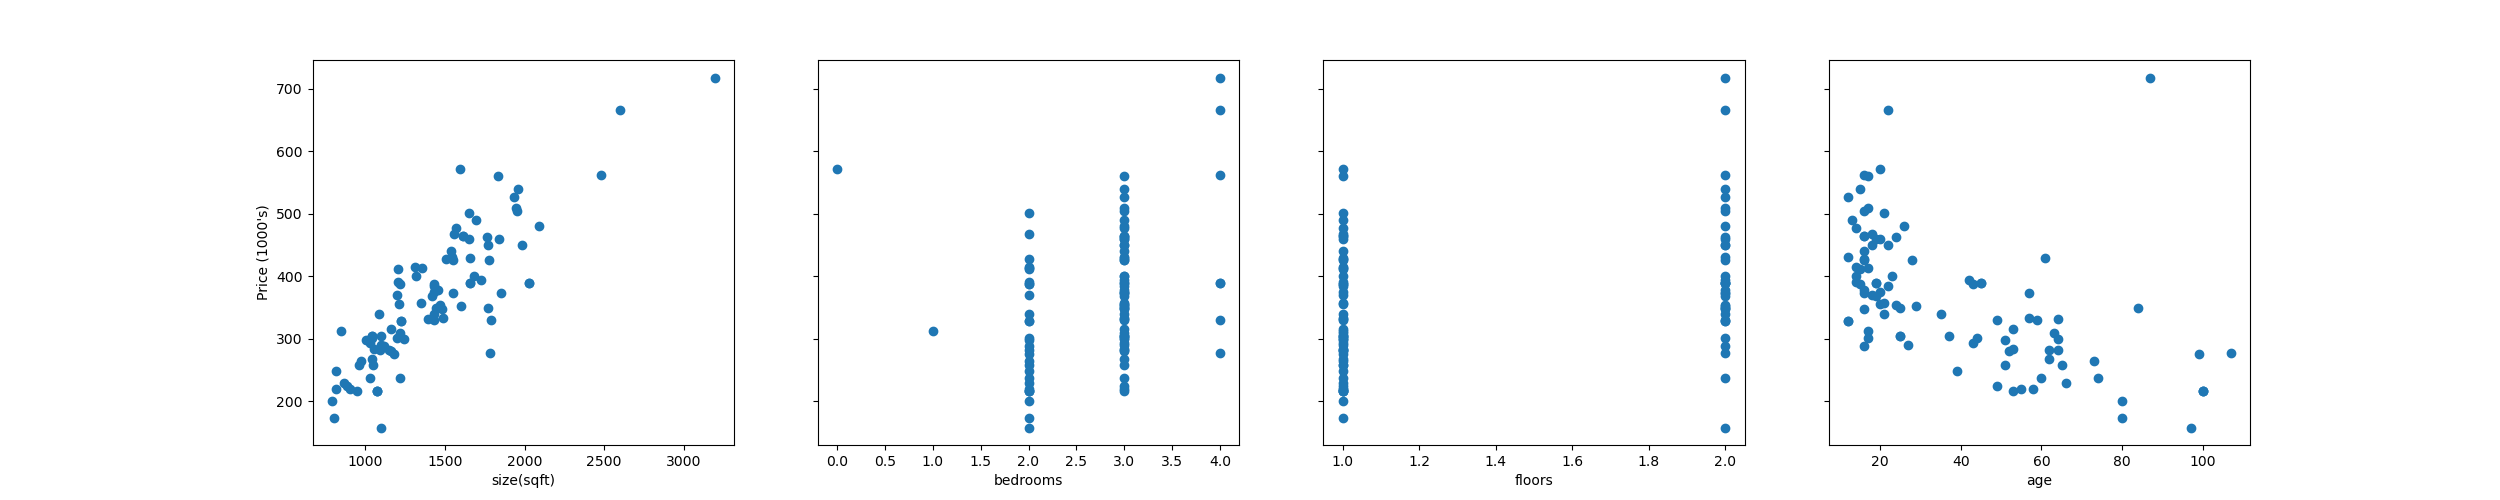
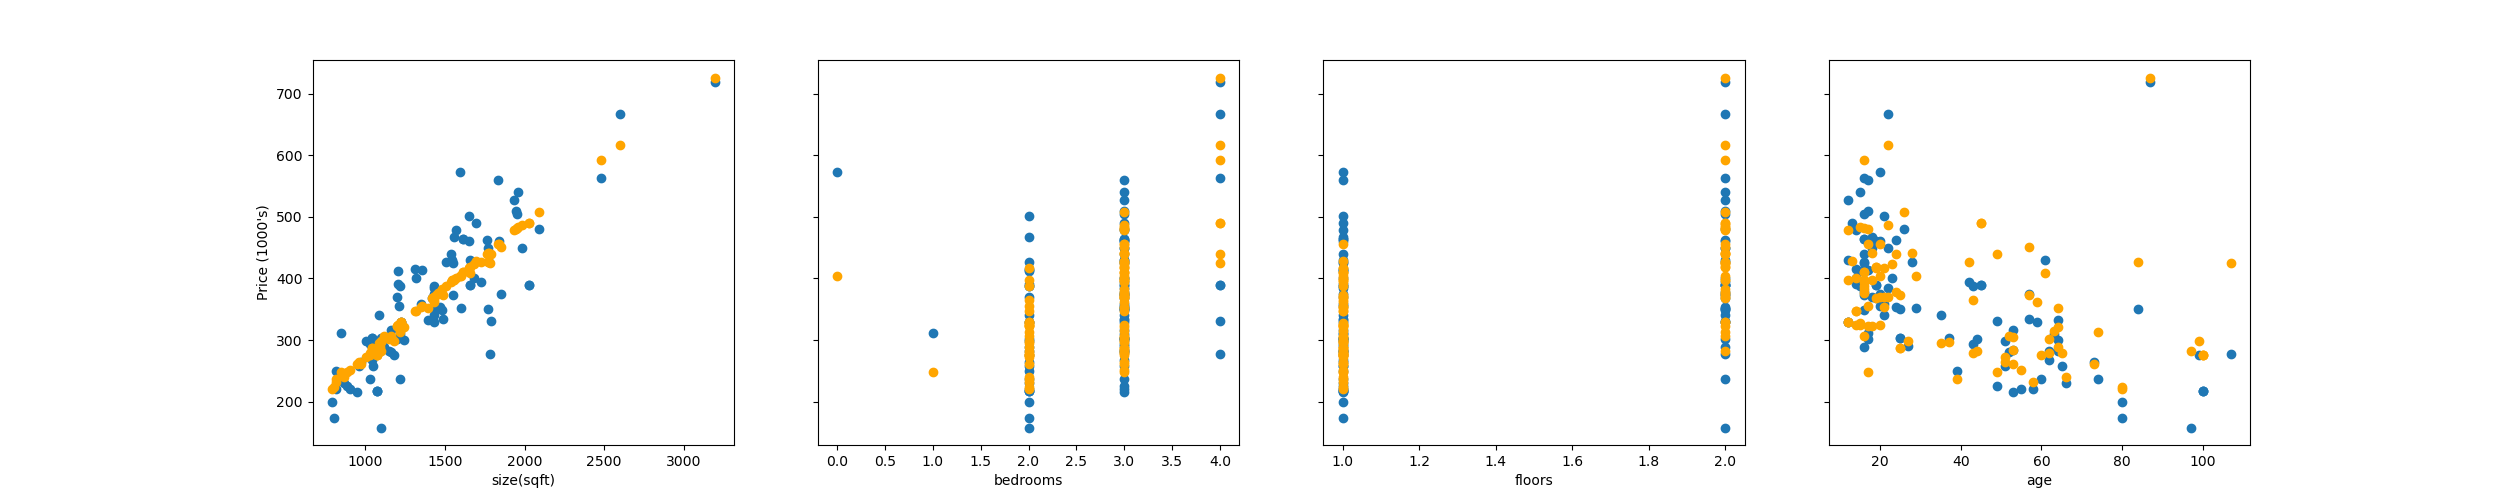
cambios generales de cara a la entrega
falta cambiar p7_2

diff --git a/Practica6/p6/p6.py b/Practica6/p6/p6.py
@@ -62,8 +62,6 @@ def test_hiper_parameters(X, y, x_ideal, y_ideal):
             error_data[temp_lambda, temp_degree], _, _ = calc_error(poly, scalar, model, x_cv, y_cv)
 
     min = np.argmin(error_data)
-    # print("Min index:", min)
-
     lambda_id = int(min/len(lambdas))
     proper_lambda = lambdas[lambda_id]
     proper_degree = min - (len(lambdas) * lambda_id) + 1 
@@ -71,15 +69,15 @@ def test_hiper_parameters(X, y, x_ideal, y_ideal):
     print("--HIPER PARAMETERS TEST--")
     print("Proper degree:", proper_degree)
     print("Proper lambda:", proper_lambda)
-    print("Error degree&lambda:", error_data)
 
     poly, scalar, model = train(x_train, y_train, proper_degree, proper_lambda)
 
     error, _, y_predict = calc_error(poly, scalar, model, x_test, y_test)
+
     print("Error test:", error)
     print()
 
-    ut.plot_train(X, y, x_ideal, y_ideal, x_test, y_predict, './results/test_hiper_parameters.png')
+    ut.plot_train(X, y, x_ideal, y_ideal, x_test, y_predict, './results/test_hiper_parameters.png', "Test hiper-parameters")
 
 # lambda test
 def test_lambda(X, y, x_ideal, y_ideal):
@@ -94,18 +92,19 @@ def test_lambda(X, y, x_ideal, y_ideal):
 
         error_data[temp_lambda], _, _ = calc_error(poly, scalar, model, x_cv, y_cv)
 
-    proper_lambda = lambdas[np.argmin(error_data)] # MASSIVE PROBLEM, COLOSSAL EVEN
+    proper_lambda = lambdas[np.argmin(error_data)]
     
     print("--LAMBDA TEST--")
     print("Proper lambda:", proper_lambda)
-    print("Error lambda:", error_data)
-    print()
 
     poly, scalar, model = train(x_train, y_train, degree, proper_lambda)
 
-    _, _, y_predict = calc_error(poly, scalar, model, x_test, y_test)
+    error_test, _, y_predict = calc_error(poly, scalar, model, x_test, y_test)
 
-    ut.plot_train(X, y, x_ideal, y_ideal, x_test, y_predict, './results/test_lambda.png')
+    print("Error lambda:", error_test)
+    print()
+    
+    ut.plot_train(X, y, x_ideal, y_ideal, x_test, y_predict, './results/test_lambda.png', "Test lambda")
 
 # degree test
 def test_degree(X, y, x_ideal, y_ideal):
@@ -122,17 +121,18 @@ def test_degree(X, y, x_ideal, y_ideal):
 
     print("--DEGREE TEST--")
     print("Proper degree:", proper_degree)
-    print("Error degree:", error_data)
-    print()
 
     poly, scalar, model = train(x_train, y_train, proper_degree)
 
-    _, _, y_predict = calc_error(poly, scalar, model, x_test, y_test)
+    error_test, _, y_predict = calc_error(poly, scalar, model, x_test, y_test)
+    
+    print("Error degree:", error_test)
+    print()
 
-    ut.plot_train(X, y, x_ideal, y_ideal, x_test, y_predict, './results/test_degree.png')
+    ut.plot_train(X, y, x_ideal, y_ideal, x_test, y_predict, './results/test_degree.png', "Test degree")
 
 # first test
-def test_start(X, y, x_ideal, y_ideal):
+def test_overadjustment(X, y, x_ideal, y_ideal):
     x_train, x_test, y_train, y_test = skms.train_test_split(X, y, test_size=0.33, random_state=1)
 
     poly, scalar, model = train(x_train, y_train)
@@ -140,18 +140,18 @@ def test_start(X, y, x_ideal, y_ideal):
     error_train, _, y_train_predict = calc_error(poly, scalar, model , x_train, y_train)
     error_test, _, _ = calc_error(poly, scalar, model, x_test, y_test)
 
-    print("--START TEST--")
+    print("--OVERADJUSTMENT TEST--")
     print("Error train:", error_train)
     print("Error test:", error_test)
     print()
 
-    ut.plot_train(X, y, x_ideal, y_ideal, x_train, y_train_predict, './results/test_start.png')
+    ut.plot_train(X, y, x_ideal, y_ideal, x_train, y_train_predict, './results/test_overadjustment.png', "Test overadjustment")
 
 def main():
     X, y, x_ideal, y_ideal = ut.gen_data(64)
     X = X[:, None]
 
-    test_start(X, y, x_ideal, y_ideal)
+    test_overadjustment(X, y, x_ideal, y_ideal)
     test_degree(X, y, x_ideal, y_ideal)
     test_lambda(X, y, x_ideal, y_ideal)
 

diff --git a/Practica7/p7_1/p7_1.py b/Practica7/p7_1/p7_1.py
@@ -6,42 +6,42 @@ import numpy as np
 import sklearn.svm as skl_svm
 import sklearn.metrics as skm
 
-def test_svm(X, y, res_path, kernel_type, c, sigma):
+def test_svm(X, y, res_path, title, kernel_type, c, sigma):
     svm_ = svm.svm(X, y, None, None, kernel_type, c, sigma)
-    ut.plot_svm(res_path, X, y, svm_)
+    ut.plot_svm(res_path, title, X, y, svm_)
 
 def apply_svm(X, y, X_val, y_val, kernel_type, c, sigma):
     svm_, _, accuracy = svm.svm(X, y, X_val, y_val, kernel_type, c, sigma)
-    # print('Accuracy:', accuracy * 100)
     return svm_, accuracy * 100
 
-def get_best_svm_parameters(X, y, X_val, y_val ):
+def get_best_svm_parameters(X, y, X_val, y_val):
     values = [0.01, 0.03, 0.1, 0.3, 1, 3, 10, 30]
-    best_accuracy, c, sigma = -1, 0, 0
-    svm_ = None
+    accuracies, svm_ = [], []
     for c_value in values:
         for sigma_value in values:
             new_svm, new_accuracy = apply_svm(X, y, X_val, y_val, 'rbf', c_value, sigma_value)
             
-            if(best_accuracy < new_accuracy):
-                best_accuracy, c, sigma = new_accuracy, c_value, sigma_value
-                svm_ = new_svm
-                
+            accuracies.append(new_accuracy)
+            svm_.append((new_svm, c_value, sigma_value))
+
+    best_accuracy = np.argmax(accuracies)
+    svm_, c, sigma = svm_[best_accuracy]
+
     print("C:", c)
     print("Sigma:", sigma)
-    print('Accuracy:', best_accuracy)
+    print('Accuracy:', accuracies[best_accuracy])
 
-    ut.plot_svm('./results/graph_c_' + str(c) + '_sigma_' + str(sigma) + '.png', X, y, svm_)
+    ut.plot_svm('./results/graph_c_' + str(c) + '_sigma_' + str(sigma) + '.png', 'c_' + str(c) + '_sigma_' + str(sigma), X, y, svm_)
 
 def main():
     # testing c values
     X, y = ut.obtain_data('./data/ex6data1.mat')
-    test_svm(X, y, './results/graph_c1.png', 'linear', 1.0, 1.0)
-    test_svm(X, y, './results/graph_c2.png', 'linear', 10.0, 1.0)
+    test_svm(X, y, './results/graph_c1.png', 'c_1', 'linear', 1.0, 1.0)
+    test_svm(X, y, './results/graph_c2.png', 'c_10', 'linear', 10.0, 1.0)
 
     # testing gaussian kernel
     X, y = ut.obtain_data('./data/ex6data2.mat')
-    test_svm(X, y, './results/graph_sigma.png', 'rbf', 1.0, 0.1)
+    test_svm(X, y, './results/graph_sigma.png', 'sigma_0.1', 'rbf', 1.0, 0.1)
 
     # picking best parameters
     X, y, X_val, y_val = ut.obtain_data('./data/ex6data3.mat')

diff --git a/Practica5/p5/p5.py b/Practica5/p5/p5.py
@@ -9,9 +9,15 @@ import scipy.optimize as sciopt
 def test_neural_network(theta1, theta2, X, y_onehot, lambda_):
     J = nn.cost(theta1, theta2, X, y_onehot, lambda_)
     print("Neural network cost:", J)
+    print()
     ut.checkNNGradients(nn.backprop, lambda_)
 
 def apply_nn(X, y_onehot, theta1, theta2, num_iters, alpha, lambda_, opt=True):
+    # initialize thetas with a random factor
+    epsilon = 0.12           # s[curr_l + 1]    s[curr_l] + 1    
+    theta1 = np.random.random((theta1.shape[0], theta1.shape[1])) * (2 * epsilon) - epsilon
+    theta2 = np.random.random((theta2.shape[0], theta2.shape[1])) * (2 * epsilon) - epsilon
+
     if opt == False:    # unoptimized
         _, tetha1, tetha2 = nn.gradient(theta1, theta2, X, y_onehot, num_iters, alpha, lambda_)
     else:               # optimized
@@ -42,18 +48,13 @@ def main():
     # trying out the neural network on a small scale
     test_neural_network(theta1, theta2, X, y_onehot, lambda_)
 
-    # initialize thetas with a random factor
-    epsilon = 0.12           # s[curr_l + 1]    s[curr_l] + 1    
-    theta1 = np.random.random((theta1.shape[0], theta1.shape[1])) * (2 * epsilon) - epsilon
-    theta2 = np.random.random((theta2.shape[0], theta2.shape[1])) * (2 * epsilon) - epsilon
-
     # use neural network gradient (by default, optimised)
     theta1, theta2 = apply_nn(X, y_onehot, theta1, theta2, num_iters, alpha, lambda_)
 
     # check accuracy
     predict = ut.predict(theta1, theta2, X)
     accuracy = np.sum(y == predict) / y.shape[0] * 100
-    print('Accuracy:', accuracy)
+    print('Neural network accuracy:', accuracy)
 
 if __name__ == '__main__':
     main()

diff --git a/Practica3/p3/p3.py b/Practica3/p3/p3.py
@@ -31,13 +31,13 @@ def main():
     # parameters acquisition and visualization 
     X_data, y_data = ut.load_data('./data/ex2data1.txt')
     w, b, _ = compute_logistic_reg_gradient_descent(X_data, y_data)
-    ut.plot_logistic_reg("./results/logistic_reg_fit.png", X_data, y_data, w, b)
+    ut.plot_logistic_reg("./results/logistic_reg_fit.png", "Linear fit logistic_reg", X_data, y_data, w, b)
 
     # parameters acquisition and visualization (regularized)
     X_data, y_data = ut.load_data('./data/ex2data2.txt')
     data = ut.map_data_features(X_data, y_data) # map features 
     w, b, _ = compute_logistic_reg_gradient_descent(data[:,:-1], data[:,-1], 0.1)
-    ut.plot_logistic_reg("./results/logistic_reg_fit_regularized.png", data[:,:-1], data[:,-1], w, b)
+    ut.plot_logistic_reg("./results/logistic_reg_fit_regularized.png", "Non-linear regularized logistic_reg decision boundary", data[:,:-1], data[:,-1], w, b)
 
 if __name__ == '__main__':
     main()

diff --git a/Practica6/p6/utils.py b/Practica6/p6/utils.py
@@ -12,9 +12,10 @@ def gen_data(m, seed=1, scale=0.7):
     x_ideal = x_train
     return x_train, y_train, x_ideal, y_ideal
 
-def plot_train(X, y, x_ideal, y_ideal, X_predict, y_predict, fileName):
+def plot_train(X, y, x_ideal, y_ideal, X_predict, y_predict, fileName, title):
     plt.figure()
 
+    plt.title(title)
     plt.scatter(X, y, c='blue', label='train')
     plt.plot(x_ideal, y_ideal, c='red', label='y_ideal', linestyle='dashed')
 
@@ -34,7 +35,8 @@ def plot_train(X, y, x_ideal, y_ideal, X_predict, y_predict, fileName):
 def plot_error(num_data, error_data_train, error_data_cv, fileName, linewidth = 4):
     plt.figure()
 
-    plt.xlabel("Num casos")
+    plt.title("Error graph")
+    plt.xlabel("Number cases")
     plt.ylabel("Error")
 
     plt.plot(num_data, error_data_train, c='cyan', label='error_train', linewidth=3)

diff --git a/Practica7/p7_2/p7_2.py b/Practica7/p7_2/p7_2.py
@@ -114,7 +114,7 @@ def main(training_sys):
 
     if training_sys == 'svm':       # SVM accuracy: 98.03
         check_spam_svm(x_train, y_train, x_val, y_val, x_test, y_test)
-    elif training_sys == 'nn':      # Neural network accuracy: 96.97
+    elif training_sys == 'nn':      # Neural network accuracy: 97.58
         check_spam_neural_network(x_train, y_train, x_val, y_val, x_test, y_test)
     elif training_sys == 'log':     # Logistic regression accuracy: 97.42
         check_spam_reg_log(x_train, y_train, x_val, y_val, x_test, y_test)
@@ -124,4 +124,4 @@ def main(training_sys):
         check_spam_svm(x_train, y_train, x_val, y_val, x_test, y_test)
 
 if __name__ == '__main__':
-    main('log')
+    main('nn')

diff --git a/Practica7/p7_1/utils.py b/Practica7/p7_1/utils.py
@@ -10,7 +10,7 @@ def obtain_data(data_path):
     else:
         return data['X'], data['y']
 
-def plot_svm(res_path, X, y, svm):
+def plot_svm(res_path, title, X, y, svm):
     x1 = np.linspace(X[:, 0].min(), X[:, 0].max(), 100)
     x2 = np.linspace(X[:, 1].min(), X[:, 1].max(), 100)
 
@@ -18,6 +18,7 @@ def plot_svm(res_path, X, y, svm):
     y_predict = svm.predict(np.array([x1.ravel(), x2.ravel()]).T).reshape(x1.shape)
 
     plt.figure()
+    plt.title(title)
 
     plt.scatter(X[(y==1).ravel(), 0], X[(y==1).ravel(), 1], color='blue', marker='+')
     plt.scatter(X[(y==0).ravel(), 0], X[(y==0).ravel(), 1], color='red', marker='o')

diff --git a/Practica2/p2/utils.py b/Practica2/p2/utils.py
@@ -34,10 +34,10 @@ def plot_multi_linear_reg_data(X_train, y_train):
 def plot_multi_linear_reg(path, w, b, X_data, y_data, norm_data):
     ax = plot_multi_linear_reg_data(X_data, y_data)
     
-    # TODO
-    # for i in range(len(ax)):
-    #     ax[i].plot(norm_data[:, i], w[i] * norm_data[:, i] + b, c='red')
-    #     # ax[i].scatter(X_train[:, i], y_train)
+    y_predict = (norm_data[:,:-1] @ w) + b
+
+    for i in range(len(ax)):
+        ax[i].scatter(X_data[:, i], y_predict, c='orange')
 
     plt.savefig(path)
     plt.close('all')

diff --git a/Practica2/p2/p2.py b/Practica2/p2/p2.py
@@ -12,7 +12,7 @@ def test_parameters(w, b, mu, sigma):
 
     # should be around $318709
     price = (np.dot(w, norm_features) + b) * 1000
-    print("Price for a house with 1200 sqft, 3 bedrooms, 1 foor, 40 years old: ${}".format(price))
+    print("Price for a house with 1200 sqft, 3 bedrooms, 1 floor, 40 years old: ${}".format(price))
 
 def compute_multi_linear_reg_descent(data):
     # initial data and parameters

diff --git a/Practica3/p3/utils.py b/Practica3/p3/utils.py
@@ -58,9 +58,10 @@ def plot_decision_boundary(w, b, X, y):
         # Plot z = 0
         plt.contour(u, v, z, levels=[0.5], colors="g")
 
-def plot_logistic_reg(path, X_train, y_train, w, b):
+def plot_logistic_reg(path, title, X_train, y_train, w, b):
     plt.figure()
 
+    plt.title(title)
     plot_decision_boundary(w, b, X_train, y_train)
 
     plt.savefig(path)

diff --git a/Practica5/p5/utils.py b/Practica5/p5/utils.py
@@ -135,6 +135,7 @@ def checkNNGradients(costNN, reg_param=0):
 
     print('If your backpropagation implementation is correct, then the relative difference will be small (less than 1e-9). \n'
           'Relative Difference: %g' % diff)
+    print()
 
 def predict(theta1, theta2, X):
     """
